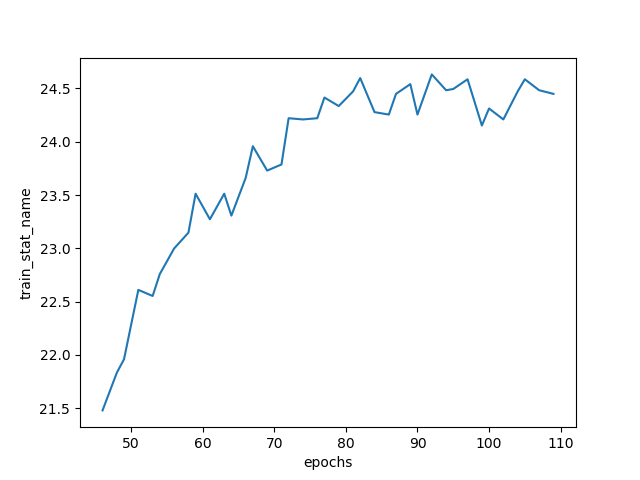
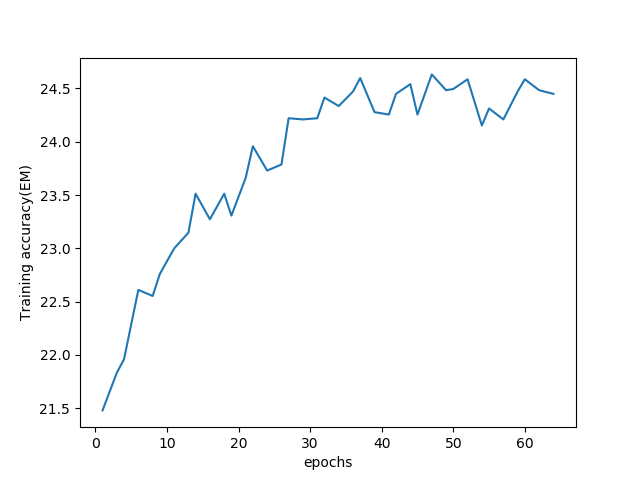
updates

diff --git a/T5.py b/T5.py
@@ -1,7 +1,7 @@
 from transformers import T5ForConditionalGeneration
 
 # from transformers.modeling_outputs import Seq2SeqLMOutput
-from transformers.modeling_bart import shift_tokens_right
+# from transformers.modeling_bart import shift_tokens_right
 from transformers.modeling_t5 import T5PreTrainedModel, T5Stack
 import torch
 import torch.nn.functional as F
@@ -317,11 +317,15 @@ class MyT5(T5ForConditionalGeneration):
                 decoder_attention_mask=None,
                 decoder_past_key_value_states=None,
                 use_cache=False,
+                lm_labels=None,
+                inputs_embeds=None,
+                decoder_inputs_embeds=None,
+                head_mask=None,
                 is_training = False):
-        if is_training:
-            _decoder_input_ids = shift_tokens_right(decoder_input_ids, self.config.pad_token_id)
-        else:
-            _decoder_input_ids = decoder_input_ids
+        # if is_training:
+        #     _decoder_input_ids = shift_tokens_right(decoder_input_ids, self.config.pad_token_id)
+        # else:
+        #     _decoder_input_ids = decoder_input_ids
         if self.gradient_cp:
 
             outputs = cp_forward(
@@ -334,24 +338,148 @@ class MyT5(T5ForConditionalGeneration):
                 use_cache=use_cache
             )
         else:
-            # import pdb
-            # pdb.set_trace()
-            # TODO: pending check
-            outputs = super(MyT5, self).forward(input_ids=input_ids,
-                                    attention_mask=attention_mask,
-                                    encoder_outputs=encoder_outputs,
-                                    decoder_input_ids=_decoder_input_ids,
-                                    decoder_attention_mask=decoder_attention_mask,
-                                    decoder_past_key_value_states=decoder_past_key_value_states,
-                                    use_cache=use_cache)
+            if encoder_outputs is None:
+                # Convert encoder inputs in embeddings if needed
+                encoder_outputs = self.encoder(
+                    input_ids=input_ids, attention_mask=attention_mask, inputs_embeds=inputs_embeds, head_mask=head_mask
+                )
 
-        # import pdb
-        # pdb.set_trace()
-        # lm_logits = F.linear(outputs[0], self.shared.weight.T) # remove bias=self.final_logits_bias from the argument
-        lm_logits = outputs[0]
-        if is_training:
-            loss_fct = nn.CrossEntropyLoss(reduction="sum", ignore_index=self.config.pad_token_id)
-            loss = loss_fct(lm_logits.view(-1, self.config.vocab_size),
-                            decoder_input_ids.view(-1))
-            return loss
-        return (lm_logits, ) + outputs[1:]
+            hidden_states = encoder_outputs[0]
+
+            if lm_labels is not None and decoder_input_ids is None and decoder_inputs_embeds is None:
+                # get decoder inputs from shifting lm labels to the right
+                decoder_input_ids = self._shift_right(lm_labels)
+
+
+
+            # If decoding with past key value states, only the last tokens
+            # should be given as an input
+            if decoder_past_key_value_states is not None:
+                assert lm_labels is None, "Decoder should not use cached key value states when training."
+                if decoder_input_ids is not None:
+                    decoder_input_ids = decoder_input_ids[:, -1:]
+                if decoder_inputs_embeds is not None:
+                    decoder_inputs_embeds = decoder_inputs_embeds[:, -1:]
+
+            # Decode
+            decoder_outputs = self.decoder(
+                input_ids=decoder_input_ids,
+                attention_mask=decoder_attention_mask,
+                inputs_embeds=decoder_inputs_embeds,
+                past_key_value_states=decoder_past_key_value_states,
+                encoder_hidden_states=hidden_states,
+                encoder_attention_mask=attention_mask,
+                head_mask=head_mask,
+                use_cache=use_cache,
+            )
+
+            # insert decoder past at right place
+            # to speed up decoding
+            if use_cache is True:
+                # import pdb
+                # pdb.set_trace()
+                past = ((encoder_outputs, decoder_outputs[1]),)
+                decoder_outputs = decoder_outputs[:1] + past + decoder_outputs[2:]
+
+            sequence_output = decoder_outputs[0]
+            # Rescale output before projecting on vocab
+            # See https://github.com/tensorflow/mesh/blob/fa19d69eafc9a482aff0b59ddd96b025c0cb207d/mesh_tensorflow/transformer/transformer.py#L586
+            sequence_output = sequence_output * (self.model_dim ** -0.5)
+            lm_logits = self.lm_head(sequence_output)
+
+            decoder_outputs = (lm_logits,) + decoder_outputs[1:]  # Add hidden states and attention if they are here
+            if lm_labels is not None:  #TODO: check if it is correct
+            # if is_training:
+                loss_fct = CrossEntropyLoss(reduction="sum",ignore_index=-100)
+                loss = loss_fct(lm_logits.view(-1, lm_logits.size(-1)), decoder_input_ids.view(-1))
+                # decoder_outputs = (loss,) + decoder_outputs
+                # TODO(thom): Add z_loss https://github.com/tensorflow/mesh/:blob/fa19d69eafc9a482aff0b59ddd96b025c0cb207d/mesh_tensorflow/layers.py#L666
+                # if not is_training:
+                #     import pdb
+                #     pdb.set_trace()
+                if is_training:
+                    return loss
+
+
+
+
+            # both decoder outputs and encoder outputs are tuple with length 1.
+            # So this method return concatenation of the three tuples
+            # return (lm_logits,) + decoder_outputs + encoder_outputs
+
+            return  decoder_outputs +encoder_outputs
+
+
+
+
+
+
+
+
+
+
+
+
+
+
+
+        #     # import pdb
+        #     # pdb.set_trace()
+        #     # TODO: pending check
+        #     outputs = super(MyT5, self).forward(input_ids=input_ids,
+        #                             attention_mask=attention_mask,
+        #                             encoder_outputs=encoder_outputs,
+        #                             decoder_input_ids=_decoder_input_ids,
+        #                             decoder_attention_mask=decoder_attention_mask,
+        #                             decoder_past_key_value_states=decoder_past_key_value_states,
+        #                             use_cache=use_cache)
+        #
+        # loss = outputs[0]
+        # if is_training:
+        #     return loss
+        # # import pdb
+        # # pdb.set_trace()
+        # # lm_logits = F.linear(outputs[0], self.shared.weight.T) # remove bias=self.final_logits_bias from the argument
+        # # # lm_logits = outputs[0]
+        # # if is_training:
+        # #     # loss_fct = nn.CrossEntropyLoss(reduction="sum", ignore_index=self.config.pad_token_id)
+        # #     # loss = loss_fct(lm_logits.view(-1),decoder_input_ids.view(-1))
+        # #
+        # #     loss = loss_fct(lm_logits.view(-1),decoder_input_ids.view(-1))
+        # #     # loss = loss_fct(lm_logits.view(-1, self.config.vocab_size),
+        # #     #                 decoder_input_ids.view(-1))
+        # #     return loss
+        # return (lm_logits, ) + outputs[1:]
+        #
+
+
+
+
+
+
+
+#
+# if is_training:
+#     _decoder_input_ids = shift_tokens_right(decoder_input_ids, self.config.pad_token_id)
+# else:
+#     _decoder_input_ids = decoder_input_ids
+#
+# outputs = self.model(
+#     input_ids,
+#     attention_mask=attention_mask,
+#     encoder_outputs=encoder_outputs,
+#     decoder_input_ids=_decoder_input_ids,
+#     decoder_attention_mask=decoder_attention_mask,
+#     decoder_cached_states=decoder_cached_states,
+#     use_cache=use_cache,
+# )
+#
+# lm_logits = F.linear(outputs[0], self.model.shared.weight, bias=self.final_logits_bias)
+#
+# if is_training:
+#     loss_fct = nn.CrossEntropyLoss(reduction="sum", ignore_index=self.config.pad_token_id)
+#     loss = loss_fct(lm_logits.view(-1, self.config.vocab_size),
+#                     decoder_input_ids.view(-1))
+#     return loss
+# return (lm_logits, ) + outputs[1:]
+

diff --git a/cli.py b/cli.py
@@ -75,23 +75,23 @@ python cli.py
         --gradient_cp False
 
 t5 training-----------------------------------
-train_bs=170
-test_bs=170
-python cli.py \
-        --model t5 \
-        --do_train --output_dir out/nq-t5-closed-qa \
-        --train_file data/nqopen-train.json \
-        --predict_file data/nqopen-dev.json \
-        --train_batch_size ${train_bs} \
-        --predict_batch_size ${test_bs} \
-        --append_another_bos \
-        --device cuda \
-        --gradient_cp False
+# train_bs=180
+# test_bs=180
+# python cli.py \
+#         --model t5 \
+#         --do_train --output_dir out/nq-t5-closed-qa \
+#         --train_file data/nqopen-train.json \
+#         --predict_file data/nqopen-dev.json \
+#         --train_batch_size ${train_bs} \
+#         --predict_batch_size ${test_bs} \
+#         --append_another_bos \
+#         --device cuda \
+#         --gradient_cp False
 
 
 train_bs=180
 test_bs=180
-python cli.py \
+CUDA_VIDIABLE_DEVICES=0  python cli.py \
         --model t5 \
         --do_train --output_dir out/nq-t5-closed-qa \
         --train_file data/nqopen-train.json \
@@ -99,14 +99,25 @@ python cli.py \
         --train_batch_size ${train_bs} \
         --predict_batch_size ${test_bs} \
         --device cuda \
-        --gradient_cp False
+        --gradient_cp False \
+        --eval_period 1
 
-eval-------------------------------
-test_bs=100
-python cli.py --do_predict --output_dir out/nq-bart-closed-qa \
-        --predict_file data/nqopen-test.json \
+
+
+
+--------------------To reproduce T5 bug
+train_bs=250
+test_bs=250
+python cli.py \
+        --model t5 \
+        --do_train --output_dir out/nq-t5-closed-qa \
+        --train_file data/nqopen-train.json \
+        --predict_file data/nqopen-dev.json \
+        --train_batch_size ${train_bs} \
         --predict_batch_size ${test_bs} \
-        --append_another_bos --prefix test_
+        --device 0 \
+        --gradient_cp False \
+        --eval_period 1000 
 
 """
 
@@ -147,6 +158,7 @@ def main():
     parser.add_argument('--max_output_length', type=int, default=20)
     parser.add_argument('--num_beams', type=int, default=4)
     parser.add_argument("--append_another_bos", action='store_true', default=False)
+    parser.add_argument("--prepend_question_token", default = False)
 
     # Training-related parameters
     parser.add_argument("--train_batch_size", default=40, type=int,
@@ -185,7 +197,7 @@ def main():
                         help="Use a subset of data for debugging")
     parser.add_argument('--seed', type=int, default=42,
                         help="random seed for initialization")
-    parser.add_argument('--device', type=str, default="cuda")
+    parser.add_argument('--device', type=str, default="cuda", help="Can be set to cpu or cuda or device number")
     parser.add_argument('--n_gpu', type=int, default=0)
     parser.add_argument('--gradient_cp', type=bool, default=False)
     args = parser.parse_args()
@@ -237,6 +249,10 @@ def main():
     if args.do_predict:
         if not args.predict_file:
             raise ValueError("If `do_predict` is True, then `predict_file` must be specified.")
+
+    if args.model.lower() == "t5" and args.prepend_question_token == False:
+        logger.warning("t5 model needs prepending ")
+
 
     logger.info("Using {} gpus".format(args.n_gpu))
     run(args, logger)

diff --git a/run.py b/run.py
@@ -15,7 +15,7 @@ def run(args, logger):
         tokenizer = BartTokenizer.from_pretrained("bart-large")
     elif args.model.lower() == "t5":
         # tokenizer = T5Tokenizer.from_pretrained("t5-large")
-        tokenizer = T5Tokenizer.from_pretrained("t5-small")
+        tokenizer = T5Tokenizer.from_pretrained("t5-base")
     else:
         print("wrong model argument")
         exit()
@@ -59,11 +59,16 @@ def run(args, logger):
             else:
                 print("wrong model argument")
                 exit()
-            # model = torch.nn.DataParallel(model)
+            if args.device == "cuda" and torch.cuda.device_count() > 1:
+                if args.n_gpu == 1:
+                    logger.warning("User specified one gpu but there are actually {}, it has been corrected".format(torch.cuda.device_count()))
+                    args.n_gpu = torch.cuda.device_count()
+                model = torch.nn.DataParallel(model)
 
 
 
         # if args.device:
+
         model.to(torch.device(args.device))
         # elif torch.cuda.is_available():
         #     model.to(torch.device("cuda"))
@@ -130,10 +135,11 @@ def train(args, logger, model, train_data, dev_data, optimizer, scheduler):
             batch = [b.to(torch.device(args.device)) for b in batch]
             # elif torch.cuda.is_available():
             #     batch = [b.to(torch.device("cuda")) for b in batch]
-
             loss = model(input_ids=batch[0], attention_mask=batch[1],
                          decoder_input_ids=batch[2], decoder_attention_mask=batch[3],
+                         lm_labels=batch[2],
                          is_training=True)
+
             # import pdb
             # pdb.set_trace()
             if args.n_gpu > 1:
@@ -156,7 +162,8 @@ def train(args, logger, model, train_data, dev_data, optimizer, scheduler):
                 model.eval()
                 # import pdb
                 # pdb.set_trace()
-                curr_em = inference(model if args.n_gpu==1 else model.module, dev_data, args.device if args.n_gpu==1 else "cuda", True)
+
+                curr_em = inference(model if args.n_gpu==1 else model.module, dev_data, args.device, True)
                 logger.info("Step %d Train loss %.2f %s %.2f%% on epoch=%d" % (
                     global_step,
                     np.mean(train_losses),
@@ -205,6 +212,7 @@ def inference(model, dev_data, device = "cuda", save_predictions=False):
                                  num_beams=dev_data.args.num_beams,
                                  max_length=dev_data.args.max_output_length,
                                  early_stopping=True,)
+
         for input_, output in zip(batch[0], outputs):
             pred = dev_data.decode(output)
             predictions.append(pred)

diff --git a/data.py b/data.py
@@ -26,6 +26,7 @@ class QAData(object):
             for i in range(len(self.data)):
                 self.data[i]["id"] = str(self.data[i]["id"])
 
+
         self.index2id = {i:d["id"] for i, d in enumerate(self.data)}
         self.id2index = {d["id"]:i for i, d in enumerate(self.data)}
         self.is_training = is_training
@@ -83,6 +84,10 @@ class QAData(object):
             if self.args.do_lowercase:
                 questions = [question.lower() for question in questions]
                 answers = [answer.lower() for answer in answers]
+            append_qa_token = True
+            if append_qa_token:
+                # questions = ["question: "+question for question in questions]
+                questions = ["question: "+question for question in questions]
             if self.args.append_another_bos:
                 questions = ["<s> "+question for question in questions]
                 answers = ["<s> " +answer for answer in answers]
@@ -91,6 +96,7 @@ class QAData(object):
                                                          max_length=self.args.max_input_length)
             answer_input = tokenizer.batch_encode_plus(answers,
                                                        pad_to_max_length=True)
+
             input_ids, attention_mask = question_input["input_ids"], question_input["attention_mask"]
             decoder_input_ids, decoder_attention_mask = answer_input["input_ids"], answer_input["attention_mask"]
             if self.load:

diff --git a/plot.py b/plot.py
@@ -25,7 +25,7 @@ def plot(args):
         print("ys: ", ys)
         plt.plot( xs, ys)
         plt.xlabel("epochs")
-        plt.ylabel("train_stat_name")
+        plt.ylabel(train_stat_name)
         ys_float = [float(y) for y in ys]
 
         # print(ys_float)
